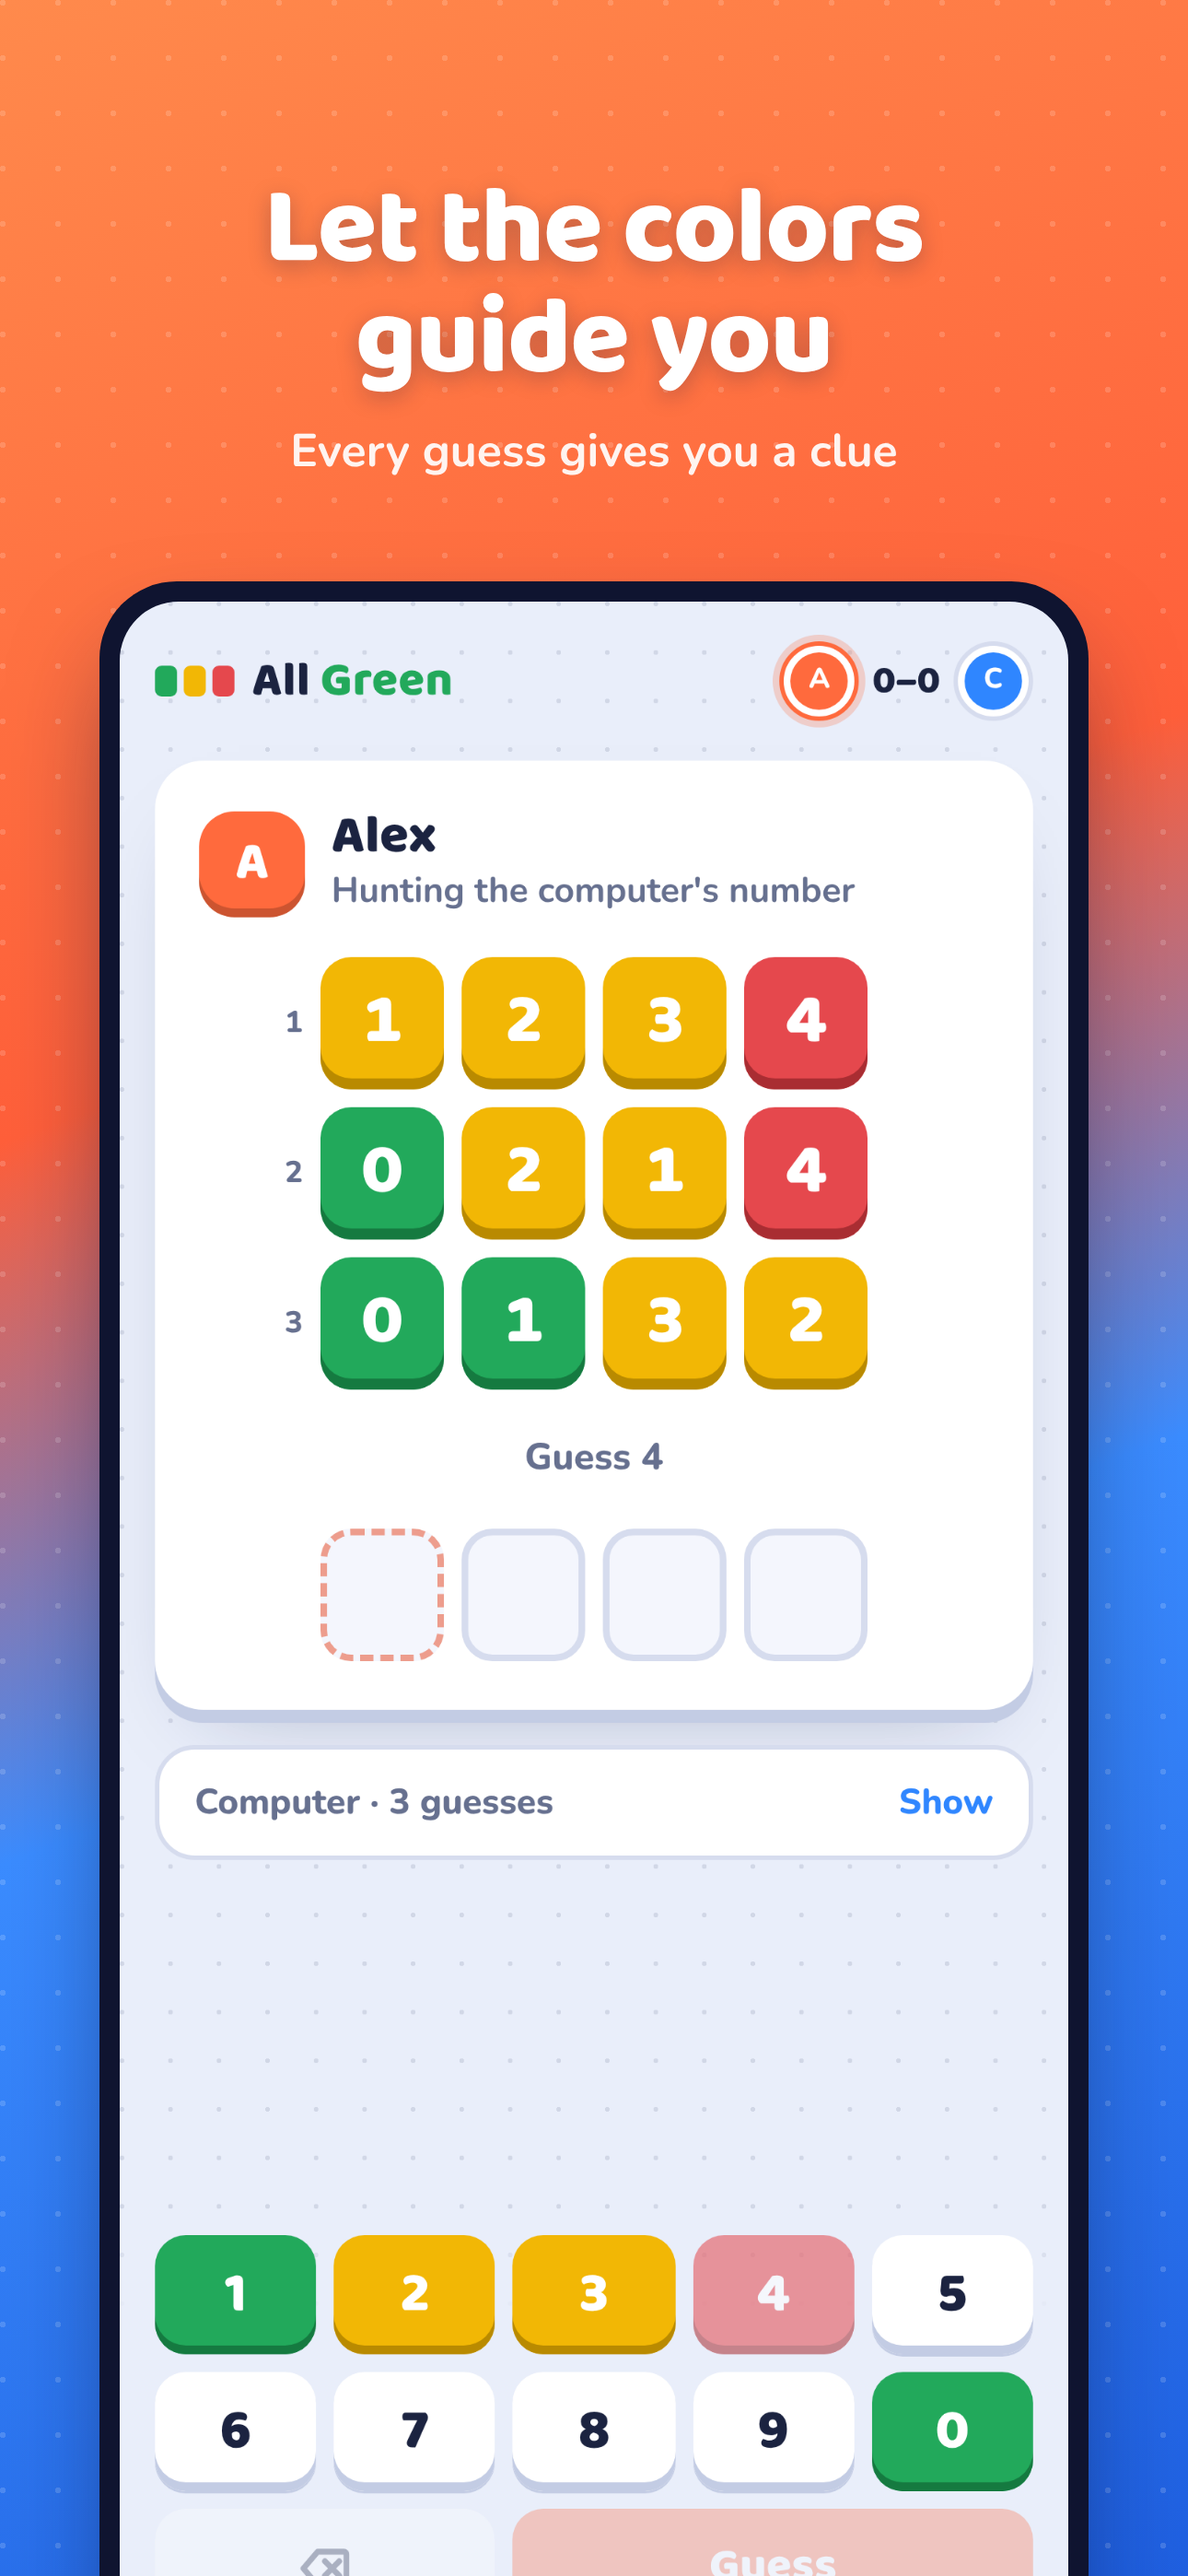
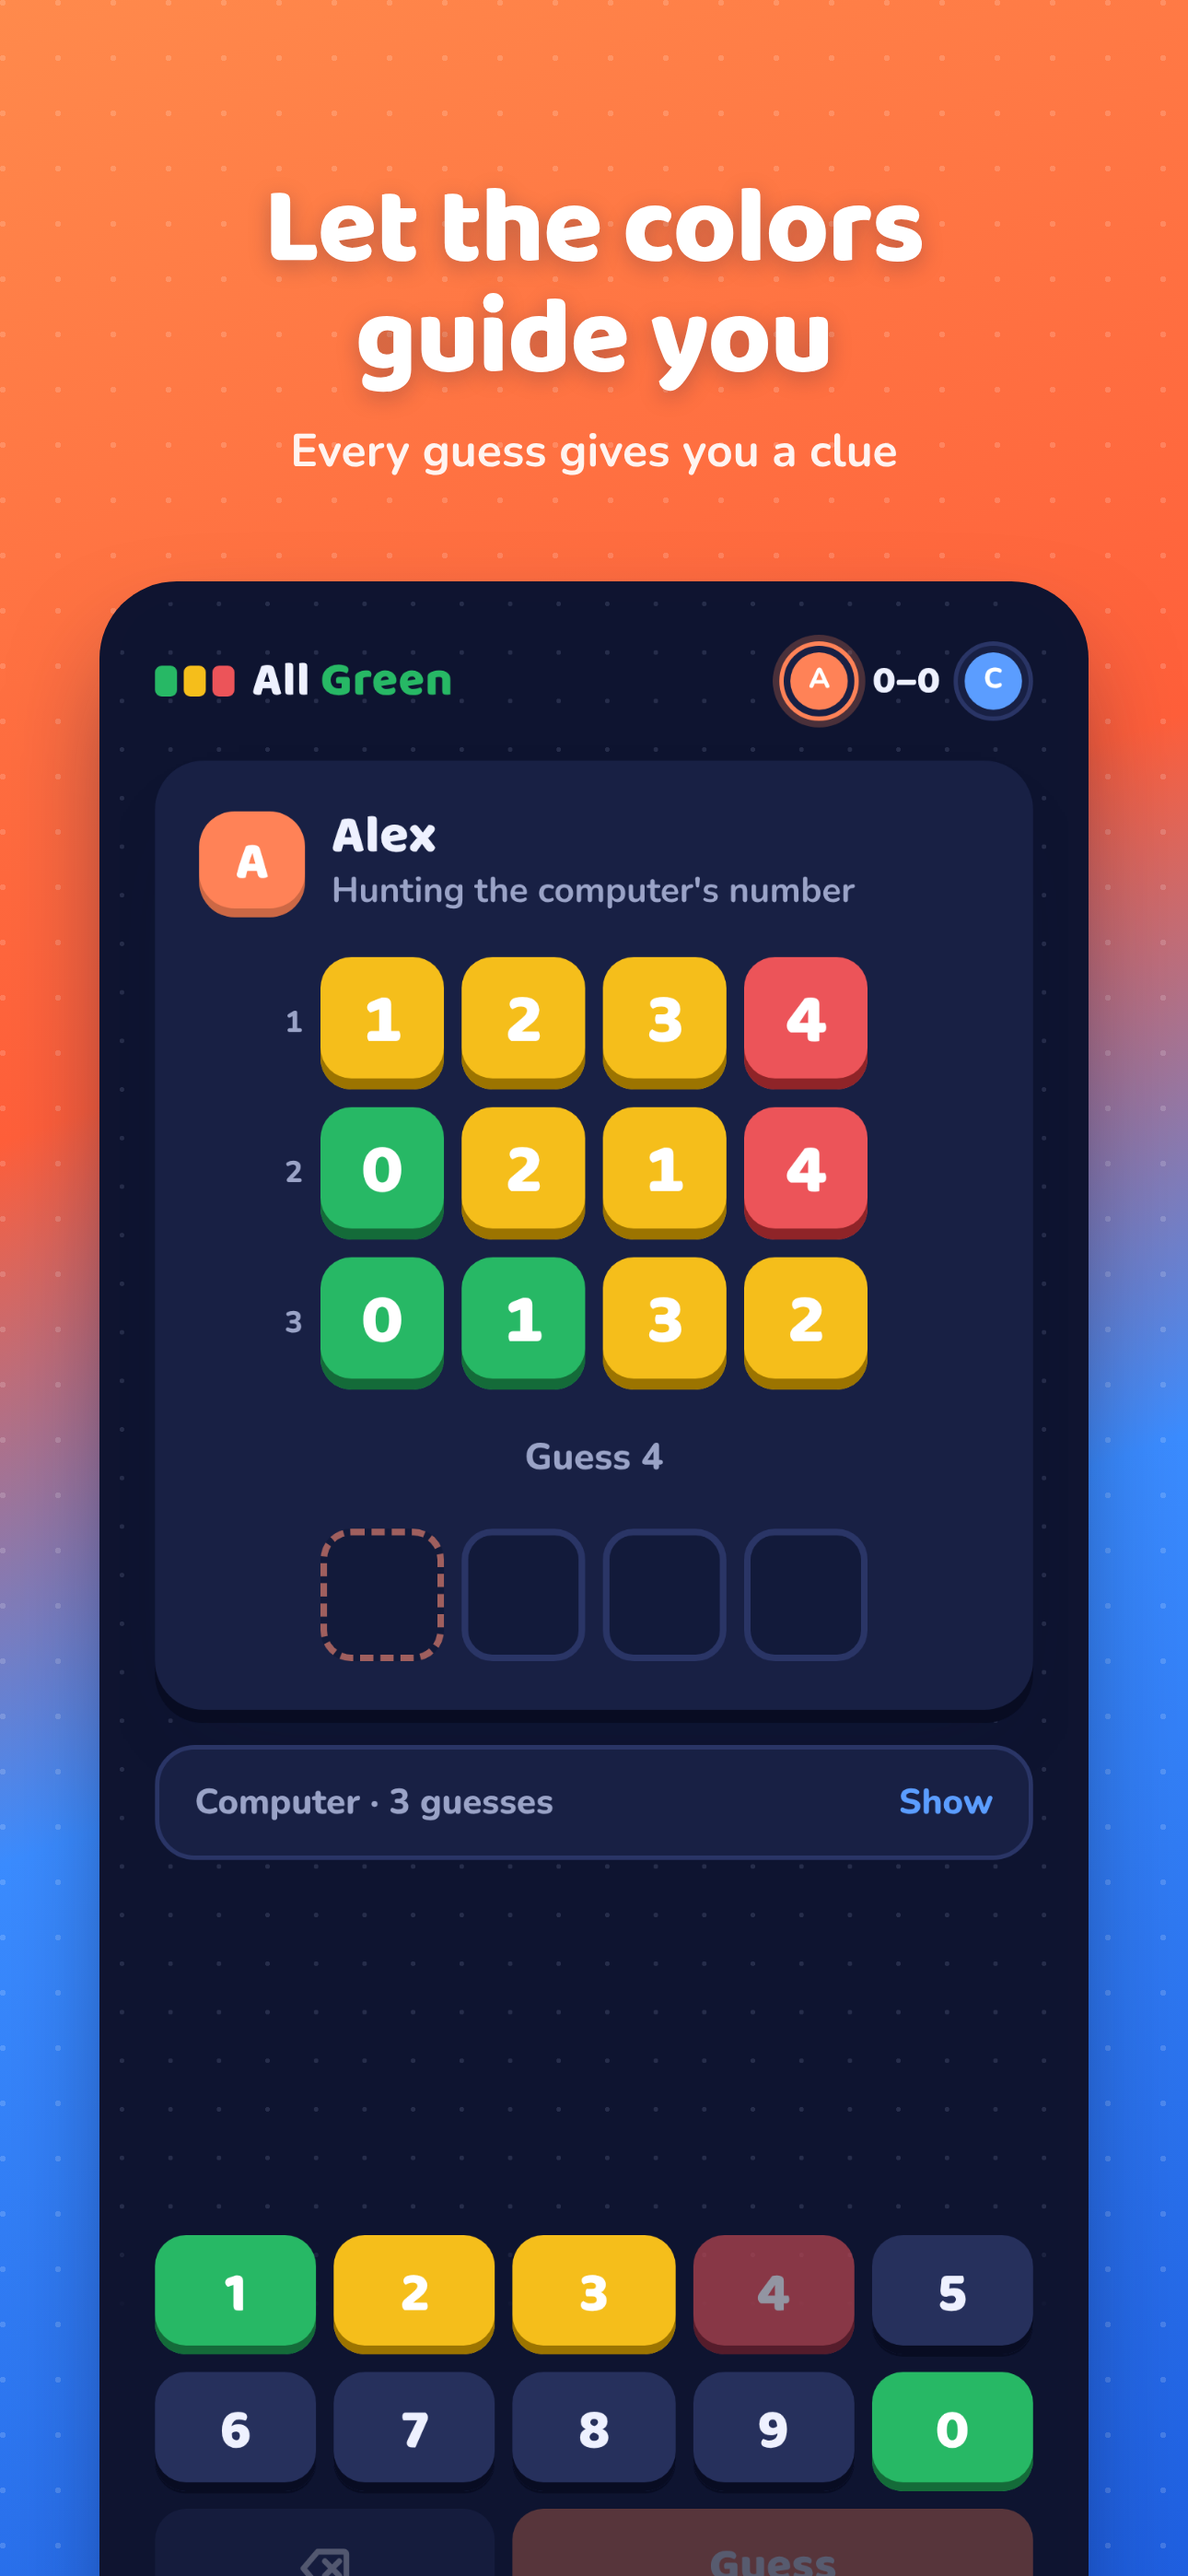
Add light/dark mode toggle
- Sun/moon button next to the language switch on the start screen
- Choice is remembered on device; without a choice the game follows the system
- Privacy and support pages open in the same theme
- iOS status bar text follows the theme via @capacitor/status-bar
- Refresh App Store screenshots (game shown in dark mode) and listing text

Claude-Session: https://claude.ai/code/session_01NqNb7C5qgckKVy866vSMQY

diff --git a/index.html b/index.html
@@ -2,7 +2,7 @@
 <meta name="viewport" content="width=device-width, initial-scale=1, viewport-fit=cover">
 <title>All Green</title>
 <meta name="description" content="Crack your opponent's secret number first. A number duel for two players or against the computer. / Rakibinin gizli sayısını ilk sen bul.">
-<meta name="theme-color" content="#ff6a3d">
+<meta name="theme-color" content="#e9eefa" id="theme-color">
 <link rel="icon" href="favicon.ico" sizes="any">
 <link rel="icon" type="image/png" href="icons/favicon-32.png">
 <link rel="apple-touch-icon" href="icons/apple-touch-icon.png">
@@ -86,6 +86,8 @@
     border: 2px solid var(--line); background: var(--surface); color: var(--ink); border-radius: 12px;
     padding: 5px 10px; font-weight: 800; font-size: .85rem; letter-spacing: .06em; box-shadow: 0 2px 0 var(--key-sh);
   }
+  .lang.icon { padding: 4px 7px; line-height: 0; }
+  .lang.icon svg { width: 20px; height: 20px; }
   .foot { display: flex; justify-content: center; gap: 10px; color: var(--muted); font-weight: 700; font-size: .9rem; padding-bottom: 20px; }
   .foot a { color: var(--muted); text-decoration: none; }
   .foot a:hover { color: var(--ink); text-decoration: underline; }
@@ -306,6 +308,7 @@
     </div>
     <div class="top-r">
       <div class="score" id="score"></div>
+      <button class="lang icon" id="theme" type="button"></button>
       <button class="lang" id="lang" type="button">EN</button>
     </div>
   </div>
@@ -393,7 +396,8 @@
       keyHint: "Klavyeyle de oynayabilirsin: rakamlar, Backspace, Enter",
       cpuPicked: "Bilgisayar da sayısını seçti. İlk tahmin senin!", yourTurn: "Sıra sende",
       turnOf: (n) => "Sıra: " + n, lastTry: " (son şans!)",
-      privacy: "Gizlilik", help: "Destek", switchTo: "Switch to English", other: "EN"
+      privacy: "Gizlilik", help: "Destek", switchTo: "Switch to English", other: "EN",
+      toDark: "Karanlık moda geç", toLight: "Aydınlık moda geç"
     },
     en: {
       hero: "Turn them<br><span>all green</span> first.",
@@ -428,7 +432,8 @@
       keyHint: "You can use your keyboard too: digits, Backspace, Enter",
       cpuPicked: "The computer picked its number. You go first!", yourTurn: "Your turn",
       turnOf: (n) => n + "'s turn", lastTry: " (last try!)",
-      privacy: "Privacy", help: "Support", switchTo: "Türkçeye geç", other: "TR"
+      privacy: "Privacy", help: "Support", switchTo: "Türkçeye geç", other: "TR",
+      toDark: "Switch to dark mode", toLight: "Switch to light mode"
     }
   };
   const savedLang = store.get("lang");
@@ -566,6 +571,7 @@
     btn.textContent = T.other;
     btn.setAttribute("aria-label", T.switchTo);
     btn.hidden = S.phase !== "setup";
+    renderThemeBtn();
     if (S.phase === "setup") { el.innerHTML = ""; return; }
     const active = S.phase === "game" ? (S.busy ? S.showFor : S.turn) : -1;
     const chip = (p) => `<span class="chip ${active === p ? "on" : ""}" style="--pc:${PC[p]}"><span class="av">${initial(nm(p))}</span><b>${esc(nm(p))}</b></span>`;
@@ -866,6 +872,39 @@
     else if (e.key === "Backspace") press("del");
     else if (e.key === "Enter" && (S.phase === "secret" || S.phase === "game")) { e.preventDefault(); press("ok"); }
   });
+
+  /* ---------- Aydınlık / karanlık mod ---------- */
+  const SUN = '<svg viewBox="0 0 24 24" fill="none" stroke="currentColor" stroke-width="2.2" stroke-linecap="round"><circle cx="12" cy="12" r="4.5"/><path d="M12 2v2.5M12 19.5V22M4.2 4.2l1.8 1.8M18 18l1.8 1.8M2 12h2.5M19.5 12H22M4.2 19.8 6 18M18 6l1.8-1.8"/></svg>';
+  const MOON = '<svg viewBox="0 0 24 24" fill="currentColor"><path d="M20.5 14.6A8.5 8.5 0 0 1 9.4 3.5a8.5 8.5 0 1 0 11.1 11.1z"/></svg>';
+  const darkQuery = window.matchMedia ? matchMedia("(prefers-color-scheme: dark)") : null;
+  const isDark = () => {
+    const t = document.documentElement.dataset.theme;
+    return t ? t === "dark" : !!(darkQuery && darkQuery.matches);
+  };
+  function applyTheme(t) {
+    if (t === "light" || t === "dark") document.documentElement.dataset.theme = t;
+    const dark = isDark();
+    $("theme-color")?.setAttribute("content", dark ? "#0e1430" : "#e9eefa");
+    // iPhone uygulamasında saat ve pil yazıları temaya uysun
+    try { window.Capacitor?.Plugins?.StatusBar?.setStyle({ style: dark ? "DARK" : "LIGHT" }); } catch (e) {}
+    renderThemeBtn();
+  }
+  function renderThemeBtn() {
+    const b = $("theme");
+    if (!b) return;
+    const dark = isDark();
+    b.innerHTML = dark ? SUN : MOON;
+    b.setAttribute("aria-label", dark ? T.toLight : T.toDark);
+    b.title = dark ? T.toLight : T.toDark;
+    b.hidden = S.phase !== "setup";
+  }
+  $("theme").addEventListener("click", () => {
+    const next = isDark() ? "light" : "dark";
+    store.set("theme", next);
+    applyTheme(next);
+  });
+  darkQuery?.addEventListener?.("change", () => applyTheme(store.get("theme")));
+  applyTheme(store.get("theme"));
 
   function render() {
     document.documentElement.lang = lang;

diff --git a/ios/App/CapApp-SPM/Package.swift b/ios/App/CapApp-SPM/Package.swift
@@ -11,14 +11,16 @@ let package = Package(
             targets: ["CapApp-SPM"])
     ],
     dependencies: [
-        .package(url: "https://github.com/ionic-team/capacitor-swift-pm.git", exact: "8.5.3")
+        .package(url: "https://github.com/ionic-team/capacitor-swift-pm.git", exact: "8.5.3"),
+        .package(name: "CapacitorStatusBar", path: "../../../node_modules/@capacitor/status-bar")
     ],
     targets: [
         .target(
             name: "CapApp-SPM",
             dependencies: [
                 .product(name: "Capacitor", package: "capacitor-swift-pm"),
-                .product(name: "Cordova", package: "capacitor-swift-pm")
+                .product(name: "Cordova", package: "capacitor-swift-pm"),
+                .product(name: "CapacitorStatusBar", package: "CapacitorStatusBar")
             ]
         )
     ]

diff --git a/privacy.html b/privacy.html
@@ -4,10 +4,14 @@
 <meta charset="utf-8">
 <meta name="viewport" content="width=device-width, initial-scale=1, viewport-fit=cover">
 <title>All Green Gizlilik</title>
-<meta name="theme-color" content="#ff6a3d">
+<meta name="theme-color" content="#e9eefa">
 <link rel="icon" href="favicon.ico" sizes="any">
 <link rel="apple-touch-icon" href="icons/apple-touch-icon.png">
 <link rel="stylesheet" href="fonts/fonts.css">
+<script>
+  // Oyunda seçilen aydınlık / karanlık mod burada da geçerli olsun
+  try { const t = JSON.parse(localStorage.getItem("allgreen:theme")); if (t === "light" || t === "dark") document.documentElement.dataset.theme = t; } catch (e) {}
+</script>
 <style>
   :root {
     --bg: #e9eefa; --surface: #ffffff; --ink: #1b2340; --muted: #5d6786; --line: #d6dcee;

diff --git a/support.html b/support.html
@@ -4,10 +4,14 @@
 <meta charset="utf-8">
 <meta name="viewport" content="width=device-width, initial-scale=1, viewport-fit=cover">
 <title>All Green Destek</title>
-<meta name="theme-color" content="#ff6a3d">
+<meta name="theme-color" content="#e9eefa">
 <link rel="icon" href="favicon.ico" sizes="any">
 <link rel="apple-touch-icon" href="icons/apple-touch-icon.png">
 <link rel="stylesheet" href="fonts/fonts.css">
+<script>
+  // Oyunda seçilen aydınlık / karanlık mod burada da geçerli olsun
+  try { const t = JSON.parse(localStorage.getItem("allgreen:theme")); if (t === "light" || t === "dark") document.documentElement.dataset.theme = t; } catch (e) {}
+</script>
 <style>
   :root {
     --bg: #e9eefa; --surface: #ffffff; --ink: #1b2340; --muted: #5d6786; --line: #d6dcee;

diff --git a/app-store/listing.md b/app-store/listing.md
@@ -57,7 +57,7 @@ Rakibinin gizli sayısını ilk sen bul! Arkadaşınla aynı telefonda ya da bil
 sayı,tahmin,bulmaca,şifre,kod,rakam,zeka,mantık,iki kişilik,düello,akıl oyunu,kırıcı
 ```
 
-**Açıklama / Description** (1126/4000)
+**Açıklama / Description** (1147/4000)
 ```
 All Green, iki kişilik bir gizli sayı düellosu. Kuralı bir dakikada öğrenirsin, ustalaşmak biraz daha uzun sürer.
 
@@ -80,7 +80,7 @@ KENDİ KURALLARIN
 KOLAY VE KEYİFLİ
 • Büyük, renkli tuş takımı. Denediğin rakamlar tuşlarda da renklenir.
 • Rövanşlar boyunca skor tutulur.
-• Açık ve koyu tema
+• Tek dokunuşla aydınlık ve karanlık mod
 • Türkçe ve İngilizce
 
 REKLAM YOK, VERİ YOK
@@ -111,7 +111,7 @@ Crack your rival's secret number first! Play a friend on one phone or take on th
 number,guess,puzzle,code,logic,brain,digits,two player,duel,cracker,riddle,offline,bulls,cows
 ```
 
-**Açıklama / Description** (1156/4000)
+**Açıklama / Description** (1168/4000)
 ```
 All Green is a secret number duel for two. You'll learn the rules in a minute; mastering them takes a little longer.
 
@@ -134,7 +134,7 @@ YOUR RULES
 EASY TO PICK UP
 • Big, colorful keypad. Digits you've tried get colored on the keys too.
 • Score is kept across rematches.
-• Light and dark theme
+• Light and dark mode with one tap
 • English and Turkish
 
 NO ADS, NO DATA
